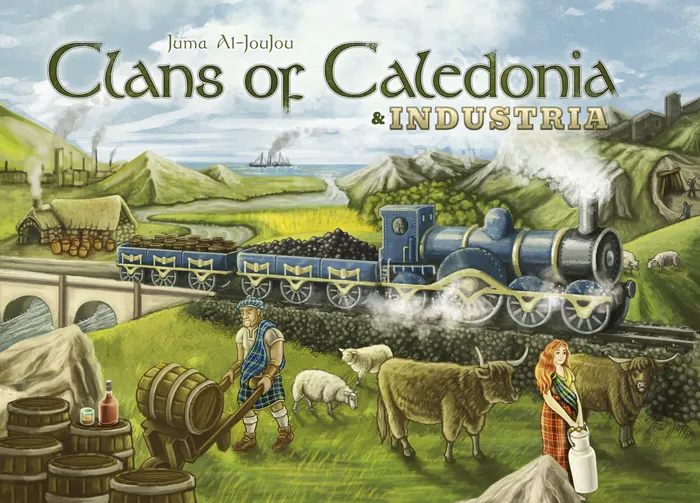
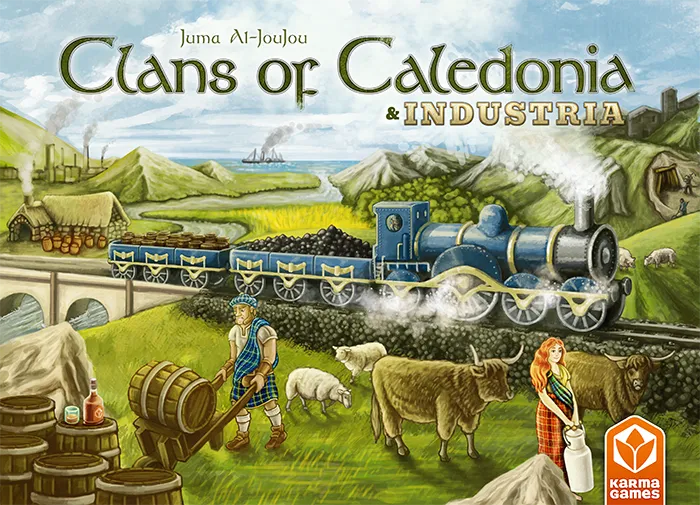
Add link to Karma Games store

diff --git a/src/views/AppHome.vue b/src/views/AppHome.vue
@@ -26,6 +26,11 @@
     <a href="https://ko-fi.com/brdgm_me" target="_blank" rel="noopener"><img class="kofi-button" src="@/assets/kofi_button_dark.png" alt="Support me on Ko-fi"/></a>
   </p>
 
+  <a class="karma-games-shop" href="https://store.karma-games.com/" target="_blank" rel="noopener">
+    <img src="@/assets/karma-games-logo.webp" alt="Karma Games Logo"/>
+    <span>Karma Games Store</span>
+  </a>
+
 </template>
 
 <script lang="ts">
@@ -44,7 +49,7 @@ export default defineComponent({
 <style lang="scss" scoped>
 .disclaimer {
   clear: both;
-  margin-top: 4rem;
+  margin-top: 2rem;
   font-size: smaller;
 }
 .kofi-button {
@@ -88,6 +93,15 @@ export default defineComponent({
     padding: 10px;
     font-style: italic;
     color: #fff;
+  }
+}
+.karma-games-shop {
+  display: flex;
+  align-items: center;
+  gap: 0.5rem;
+  font-size: smaller;
+  img {
+    width: 120px;
   }
 }
 </style>
